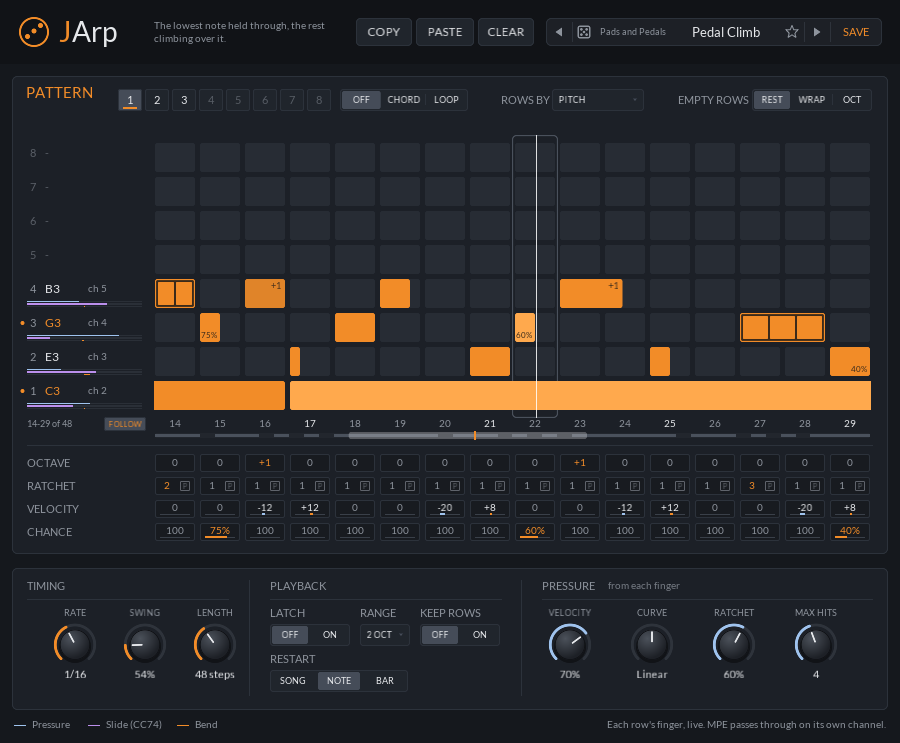
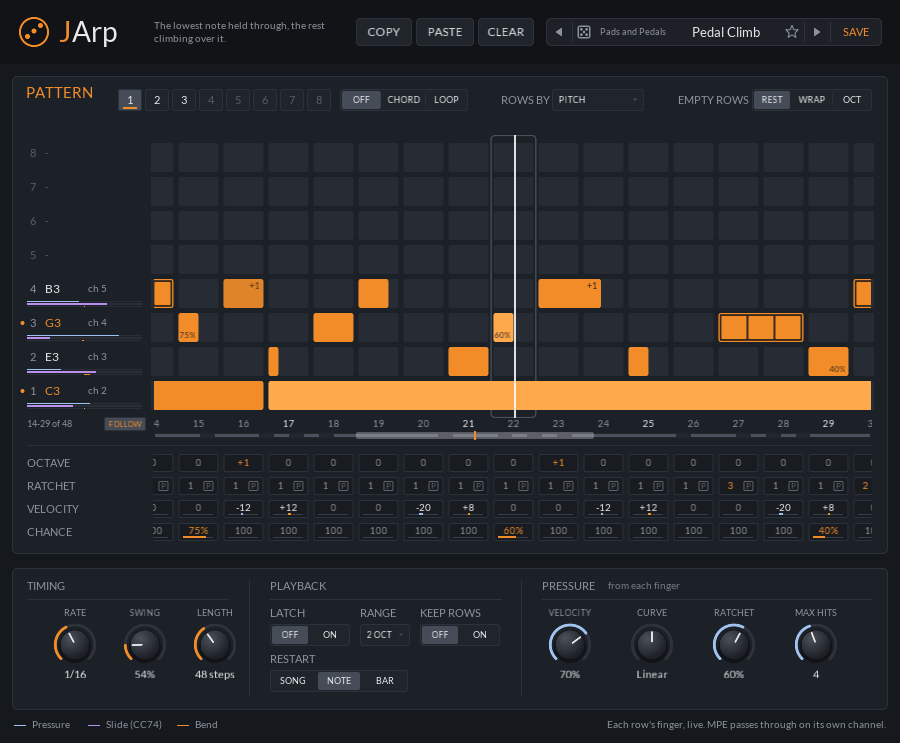
JArp 0.14.0: long patterns glide with the playhead instead of jumping a step at a time
Following a long pattern, the grid and lanes now scroll smoothly with the
transport: the view holds a fractional offset into a step, columns are
clipped at the grid's edges, and clicks map through the same offset.
Scrolling by hand (bar, wheel, end drag) still lands on whole steps.
README and the long-pattern picture updated.

Claude-Session: https://claude.ai/code/session_01FGswf6JUw7v2KbX5Q7nJHJ

diff --git a/plugins/jarp/src/editor.cpp b/plugins/jarp/src/editor.cpp
@@ -95,10 +95,13 @@ const char *ordinal(int row) {
 
 // Which steps the grid and the lanes show: kView of them from `first`. A pattern longer than kView
 // scrolls, following the playhead unless the scroll bar was moved by hand: the view holds still until
-// the playhead reaches its middle, then moves a step at a time to keep it there, and stops once the
-// pattern's last step is at the right edge.
+// the playhead reaches its middle, then glides with it to keep it there, and stops once the pattern's
+// last step is at the right edge.
 struct GridScroll {
+   // The view starts `frac` of a column past step `first`: following the playhead, it glides rather
+   // than jumping a step at a time. Scrolled by hand, it lands on a whole step (frac 0).
    int first = 0;
+   float frac = 0.0f;
    bool follow = true;
    // The notes picked (right-click, shift-click or a box) for their own lane values, by slot and
    // each one's row and step; slot -1 for none.
@@ -168,16 +171,34 @@ struct GridScroll {
       picks.clear();
    }
 
-   // Brings `first` up to date for a pattern of `len` steps with the playhead on `playStep` (or -1).
-   void update(int len, int playStep) {
+   // Brings the view up to date for a pattern of `len` steps with the playhead at `position` (in
+   // steps, or below 0 when not playing here).
+   void update(int len, double position) {
       if (len <= kView) {
          first = 0;
+         frac = 0.0f;
          return;
       }
-      if (follow && playStep >= 0)
-         first = playStep - kView / 2;
-      first = std::clamp(first, 0, len - kView);
+      if (follow && position >= 0.0) {
+         const double start = std::clamp(position - kView / 2.0, 0.0, static_cast<double>(len - kView));
+         first = static_cast<int>(std::floor(start));
+         frac = static_cast<float>(start - first);
+      }
+      if (first >= len - kView || first < 0) {
+         first = std::clamp(first, 0, len - kView);
+         frac = 0.0f;
+      }
    }
+   // Scrolls by hand to `step`, a whole step.
+   void scrollTo(int step, int len) {
+      first = std::clamp(step, 0, std::max(0, len - kView));
+      frac = 0.0f;
+   }
+   // Where on the grid a step (or part of one) starts, and the column (counted from `first`) under x.
+   float x(double step) const { return kGridX + static_cast<float>(step - first - frac) * kColumn; }
+   float column(float x) const { return (x - kGridX) / kColumn + frac; }
+   // Whether x is over the grid's columns.
+   static bool over(float x) { return x >= kGridX && x < kGridX + kView * kColumn - (kColumn - kCellW); }
 };
 
 // The grid of notes, with the row labels at its left, the step numbers under it and the pattern's
@@ -208,20 +229,23 @@ public:
       const int playQuarter = here ? static_cast<int>(f.position * kQuarters) : -1;
       const int first = scroll_.first;
 
-      // The playhead's column, behind the cells.
-      if (playStep >= first && playStep < first + kView) {
-         const float x = (kGridX + (playStep - first) * kColumn - 3) * s;
+      // The cells and the playhead's column behind them, clipped to the grid as the view glides.
+      c.saveState();
+      c.trimClampBounds((kGridX - 4) * s, 0, (kBarW + 8) * s, height());
+      if (playStep >= first && playStep <= first + kView) {
+         const float x = (scroll_.x(playStep) - 3) * s;
          c.setColor(0xff4a515c);
          c.roundedRectangleBorder(x, (kGridY - 8) * s, (kCellW + 6) * s, (7 * kRowPitch + kCellH + 16) * s, 5 * s, 1.2f * s);
       }
 
       for (int r = 0; r < kRows; ++r) {
          const float y = rowY(r);
-         for (int col = 0; col < kView; ++col) {
+         for (int col = 0; col <= kView; ++col) {
             c.setColor(first + col < len ? kCell : kCellOff);
-            c.roundedRectangle((kGridX + col * kColumn) * s, y * s, kCellW * s, kCellH * s, 3 * s);
+            c.roundedRectangle(scroll_.x(first + col) * s, y * s, kCellW * s, kCellH * s, 3 * s);
          }
       }
+      c.restoreState();
 
       // Notes, clipped to the steps in view (a long note may start before them). Each shows its own
       // lane over its step's: softer notes fainter, the octave as a tag, ratchets as splits, a dot
@@ -234,14 +258,14 @@ public:
          anyHeld = anyHeld || f.rows[r].key >= 0;
       for (int i = 0; i < p.count; ++i) {
          const Note &n = p.notes[i];
-         if (n.step >= first + kView || n.step * kQuarters + n.length <= first * kQuarters)
+         if (n.step > first + kView || n.step * kQuarters + n.length <= first * kQuarters)
             continue;
          const Lane lane = p.laneOf(i);
          const bool live = n.step < len;
          // A note on a row no held note plays (too few held, or a degree not held) greys out.
          const bool muted = anyHeld && f.rows[n.row].key < 0;
          const unsigned tone = muted ? 0xff5a606b : kOrange;
-         const float x = kGridX + (n.step - first) * kColumn, y = rowY(n.row);
+         const float x = scroll_.x(n.step), y = rowY(n.row);
          const int quarters = std::min<int>(n.length, live ? (len - n.step) * kQuarters : n.length);
          const float w = noteWidth(quarters);
          const bool sounding = live && f.running && f.rows[n.row].key >= 0 && playQuarter >= n.step * kQuarters &&
@@ -327,8 +351,8 @@ public:
       }
 
       // The playhead line, moving through the step in time with the transport.
-      if (here && f.position >= first && f.position < first + kView) {
-         const float px = kGridX + static_cast<float>(f.position - first) * kColumn;
+      if (here && f.position >= first + scroll_.frac && f.position < first + scroll_.frac + kView) {
+         const float px = scroll_.x(f.position);
          c.setColor(alpha(0xffffffff, 0.85f));
          c.fill((px - 0.75f) * s, (kGridY - 8) * s, 1.5f * s, (7 * kRowPitch + kCellH + 16) * s);
       }
@@ -377,12 +401,15 @@ public:
       }
 
       // Step numbers, the beats brighter.
-      for (int col = 0; col < kView; ++col) {
+      c.saveState();
+      c.trimClampBounds((kGridX - 2) * s, 0, (kBarW + 4) * s, height());
+      for (int col = 0; col <= kView; ++col) {
          const int step = first + col;
          c.setColor(step >= len ? alpha(t.dimText, 0.45f) : step % 4 == 0 ? t.text : t.dimText);
-         c.text(std::to_string(step + 1), ui::font(9.5f * s), visage::Font::kCenter, (kGridX + col * kColumn) * s,
+         c.text(std::to_string(step + 1), ui::font(9.5f * s), visage::Font::kCenter, scroll_.x(step) * s,
                 kNumbersY * s, kCellW * s, 16 * s);
       }
+      c.restoreState();
 
       // A pattern longer than the grid: a scroll bar under the step numbers, with the steps that
       // start notes ticked along it and the playhead in orange, and the steps in view and FOLLOW at
@@ -395,7 +422,7 @@ public:
             if (p.notes[i].step < len)
                c.fill((kGridX + p.notes[i].step * kBarW / len) * s, (kBarY + 1) * s, std::max(1.0f, kBarW / len) * s, 3 * s);
          c.setColor(alpha(t.text, hoverBar_ || drag_ == Drag::Scroll ? 0.45f : 0.3f));
-         c.roundedRectangle((kGridX + first * kBarW / len) * s, (kBarY - 1) * s, (kView * kBarW / len) * s, 7 * s, 3 * s);
+         c.roundedRectangle((kGridX + (first + scroll_.frac) * kBarW / len) * s, (kBarY - 1) * s, (kView * kBarW / len) * s, 7 * s, 3 * s);
          if (playStep >= 0) {
             c.setColor(kOrange);
             c.fill((kGridX + (f.position * kBarW / len) - 1) * s, (kBarY - 2) * s, 2 * s, 9 * s);
@@ -414,9 +441,9 @@ public:
       }
 
       // The pattern's end: a purple bar with a tab to drag.
-      if (len < first || len > first + kView)
+      if (len < first + scroll_.frac || len > first + scroll_.frac + kView)
          return;
-      const float bx = barX(len - first);
+      const float bx = barX(len);
       c.setColor(kPurple);
       c.fill((bx - 1) * s, 14 * s, 2 * s, (kGridY + 7 * kRowPitch + kCellH - 14) * s);
       c.roundedRectangle((bx - 7) * s, 4 * s, 14 * s, 14 * s, 3 * s);
@@ -444,16 +471,16 @@ public:
          return;
       }
       // The end bar, anywhere along it.
-      if (length() >= first && length() <= first + kView && std::abs(x - barX(length() - first)) < 7 &&
+      if (length() >= first && length() <= first + kView + 1 && std::abs(x - barX(length())) < 7 &&
           y < kGridY + 8 * kRowPitch) {
          drag_ = Drag::End;
          return;
       }
-      const int col = static_cast<int>(std::floor((x - kGridX) / kColumn));
+      const int col = static_cast<int>(std::floor(scroll_.column(x)));
       const int row = 7 - static_cast<int>(std::floor((y - kGridY) / kRowPitch));
-      if (col < 0 || col >= kView || row < 0 || row >= kRows || y < kGridY)
+      if (!GridScroll::over(x) || col < 0 || col > kView || row < 0 || row >= kRows || y < kGridY)
          return;
-      const int quarter = first * kQuarters + static_cast<int>(std::floor((x - kGridX) / kColumn * kQuarters));
+      const int quarter = first * kQuarters + static_cast<int>(std::floor(scroll_.column(x) * kQuarters));
       const int at = p.noteAt(row, std::min(quarter, kMaxLength - 1));
       const int slot = scroll_.view;
       // Right-click picks a note (or lets it go) for editing its own lane values below; shift-click
@@ -538,9 +565,9 @@ public:
       const int n = std::max(1, static_cast<int>(std::ceil(std::max(std::abs(dx), std::abs(dy)) / 4.0f)));
       for (int k = 1; k <= n; ++k) {
          const float px = lastX_ + dx * k / n, py = lastY_ + dy * k / n;
-         const int col = static_cast<int>(std::floor((px - kGridX) / kColumn));
+         const int col = static_cast<int>(std::floor(scroll_.column(px)));
          const int row = 7 - static_cast<int>(std::floor((py - kGridY) / kRowPitch));
-         if (col < 0 || col >= kView || row < 0 || row >= kRows || py < kGridY)
+         if (!GridScroll::over(px) || col < 0 || col > kView || row < 0 || row >= kRows || py < kGridY)
             continue;
          const int step = scroll_.first + col;
          if (drag_ == Drag::Paint) {
@@ -548,7 +575,7 @@ public:
                next.add(row, step, kQuarters);
          }
          else {
-            const int quarter = scroll_.first * kQuarters + static_cast<int>(std::floor((px - kGridX) / kColumn * kQuarters));
+            const int quarter = scroll_.first * kQuarters + static_cast<int>(std::floor(scroll_.column(px) * kQuarters));
             if (const int at = next.noteAt(row, std::min(quarter, kMaxLength - 1)); at >= 0)
                erase(next, at);
          }
@@ -605,10 +632,10 @@ public:
       }
       if (drag_ == Drag::End) {
          // Past the right edge the grid scrolls on, so the end can be dragged out to kSteps.
-         const int len = std::clamp(scroll_.first + static_cast<int>(std::lround((x - kGridX + 2.5f) / kColumn)), 1, kSteps);
+         const int len = std::clamp(scroll_.first + static_cast<int>(std::lround(scroll_.column(x + 2.5f))), 1, kSteps);
          if (len > scroll_.first + kView || len < scroll_.first) {
             scroll_.follow = false;
-            scroll_.first = std::clamp(len > scroll_.first ? len - kView : len - 1, 0, kSteps - kView);
+            scroll_.scrollTo(len > scroll_.first ? len - kView : len - 1, kSteps);
          }
          if (len != length()) {
             Pattern next = shown();
@@ -626,7 +653,7 @@ public:
       if (note_ < 0 || note_ >= next.count)
          return;
       Note &n = next.notes[note_];
-      const float start = kGridX + (n.step - scroll_.first) * kColumn;
+      const float start = scroll_.x(n.step);
       const int quarters = static_cast<int>(std::lround((x - start + 2.5f) / kColumn * kQuarters));
       n.length = static_cast<uint16_t>(std::clamp(quarters, 1, next.room(n.row, n.step, note_)));
       commit(next);
@@ -679,9 +706,9 @@ public:
          return -1;
       for (int i = 0; i < p.count; ++i) {
          const Note &n = p.notes[i];
-         if (n.row != row || n.step >= first + kView)
+         if (n.row != row || n.step > first + kView)
             continue;
-         const float right = kGridX + (n.step - first) * kColumn + noteWidth(n.length);
+         const float right = scroll_.x(n.step) + noteWidth(n.length);
          const float zone = std::min(kEdgeW, noteWidth(n.length) / 4);
          if (x <= right + 1 && x >= right - zone && right <= kGridX + kBarW + 1)
             return i;
@@ -696,7 +723,7 @@ public:
       if (len <= kView || d == 0.0f)
          return false;
       scroll_.follow = false;
-      scroll_.first = std::clamp(scroll_.first + (d > 0 ? 2 : -2), 0, len - kView);
+      scroll_.scrollTo(scroll_.first + (d > 0 ? 2 : -2), len);
       redrawAll();
       return true;
    }
@@ -717,7 +744,7 @@ private:
       scroll_.picks = boxBase_;
       for (int i = 0; i < p.count; ++i) {
          const Note &n = p.notes[i];
-         const float nx = kGridX + (n.step - scroll_.first) * kColumn, ny = rowY(n.row);
+         const float nx = scroll_.x(n.step), ny = rowY(n.row);
          const float nx1 = std::min(nx + noteWidth(n.length), kGridX + kBarW);
          if (nx1 < x0 || nx > x1 || ny + kCellH < y0 || ny > y1 || nx1 < kGridX)
             continue;
@@ -734,7 +761,7 @@ private:
    void scrollTo(float x) {
       const int len = length();
       scroll_.follow = false;
-      scroll_.first = std::clamp(static_cast<int>(std::lround((x - kGridX) / kBarW * len - kView / 2.0)), 0, len - kView);
+      scroll_.scrollTo(static_cast<int>(std::lround((x - kGridX) / kBarW * len - kView / 2.0)), len);
       redrawAll();
    }
    void redrawAll() {
@@ -746,7 +773,7 @@ private:
    int length() const { return std::clamp<int>(shown().length, 1, kSteps); }
    int maxHits() const { return static_cast<int>(std::lround(host_.paramModulated(kMaxHits))); }
    static float rowY(int row) { return kGridY + (7 - row) * kRowPitch; }
-   static float barX(int len) { return kGridX + len * kColumn - (kColumn - kCellW) / 2; }
+   float barX(int len) const { return scroll_.x(len) - (kColumn - kCellW) / 2; }
 
    static bool rowPlaying(const Pattern &p, const jarp::Frame &f, int row, int len, int playQuarter) {
       if (!f.running)
@@ -827,7 +854,10 @@ public:
          c.setColor(0xffffffff);
          c.text(label, ui::font(8 * s), visage::Font::kLeft, 74 * s, kLaneY[0] * s, 50 * s, kLaneH * s);
       }
-      for (int col = 0; col < kView; ++col) {
+      // Clipped to the grid's columns as the view glides.
+      c.saveState();
+      c.trimClampBounds((kGridX - 2) * s, 0, (kView * kColumn - (kColumn - kCellW) + 4) * s, height());
+      for (int col = 0; col <= kView && scroll_.first + col < kSteps; ++col) {
          const int step = scroll_.first + col;
          const int picked = scroll_.pickedOn(p, slot, step);
          const bool mine = picked >= 0;
@@ -837,7 +867,7 @@ public:
          // A picked note's value taken from the step shows dim.
          auto dim = [&](uint8_t bit) { return own & bit ? base : 0.45f * base; };
          float a = base;
-         const float x = kGridX + col * kColumn;
+         const float x = scroll_.x(step);
          for (int lane = 0; lane < kLanes; ++lane) {
             const float y = kLaneY[lane];
             c.setColor(alpha(0xff181b20, a));
@@ -894,13 +924,14 @@ public:
             c.fill((x + 5) * s, (cy - 0.5f) * s, (kCellW - 10) * l.chance / 100.0f * s, 2.0f * s);
          }
       }
+      c.restoreState();
    }
 
    void mouseDown(const visage::MouseEvent &e) override {
       const float s = ui::designScale(*this);
       const float x = e.position.x / s, y = e.position.y / s;
-      const int view = static_cast<int>(std::floor((x - kGridX) / kColumn));
-      col_ = view >= 0 && view < kView ? scroll_.first + view : -1;
+      const int view = static_cast<int>(std::floor(scroll_.column(x)));
+      col_ = GridScroll::over(x) && view >= 0 && view <= kView ? scroll_.first + view : -1;
       lane_ = -1;
       for (int l = 0; l < kLanes; ++l)
          if (y >= kLaneY[l] - 2 && y < kLaneY[l] + kLaneH + 3)
@@ -911,7 +942,7 @@ public:
       const int note = noteFor(p, col_);
       downY_ = y;
       // P toggles (each click, so a quick second click toggles it back).
-      if (lane_ == 1 && x - (kGridX + view * kColumn) >= 23) {
+      if (lane_ == 1 && x - scroll_.x(col_) >= 23) {
          Lane l = laneAt(p, col_, note);
          l.pressure = l.pressure ? 0 : 1;
          store(p, col_, note, l, kOwnPressure);
@@ -969,14 +1000,16 @@ public:
    bool mouseWheel(const visage::MouseEvent &e) override {
       const float s = ui::designScale(*this);
       const float x = e.position.x / s, y = e.position.y / s;
-      const int view = static_cast<int>(std::floor((x - kGridX) / kColumn));
+      const int view = static_cast<int>(std::floor(scroll_.column(x)));
       int lane = -1;
       for (int l = 0; l < kLanes; ++l)
          if (y >= kLaneY[l] - 2 && y < kLaneY[l] + kLaneH + 3)
             lane = l;
-      if (view < 0 || view >= kView || lane < 0 || e.wheel_delta_y == 0.0f)
+      if (!GridScroll::over(x) || view < 0 || view > kView || lane < 0 || e.wheel_delta_y == 0.0f)
          return false;
       const int col = scroll_.first + view;
+      if (col >= kSteps)
+         return false;
       const int by = e.wheel_delta_y > 0 ? 1 : -1;
       Pattern p = shown();
       const int note = noteFor(p, col);
@@ -1607,7 +1640,7 @@ public:
          const jarp::Frame &f = host_.frame();
          const int len = std::clamp<int>(shown().length, 1, kSteps);
          const bool here = f.running && f.slot == scroll_.view;
-         scroll_.update(len, here ? std::clamp(static_cast<int>(f.position), 0, len - 1) : -1);
+         scroll_.update(len, here ? std::clamp(f.position, 0.0, static_cast<double>(len)) : -1.0);
       }
       slots_->redraw();
       // Over the grid, the dice card hides what's under it.

diff --git a/plugins/jarp/README.md b/plugins/jarp/README.md
@@ -14,7 +14,7 @@ note on that step for as long as the cell is drawn. Every note goes out on the f
 key, so the synth after it still hears that finger's pressure, slide and bend. Put it before any MPE
 instrument.
 
-Version 0.13.0.
+Version 0.14.0.
 
 ![Panel](docs/panel.png)
 
@@ -62,7 +62,8 @@ the playhead. Beside it, the steps in view (`17-32 of 48`) and **FOLLOW**.
 ![A long pattern](docs/long.png)
 
 - With **FOLLOW** lit, the grid follows the playhead: it holds still until the playhead reaches the
-  middle, then scrolls a step at a time to keep it there, until the pattern's end reaches the right edge.
+  middle, then glides along with it, smoothly with the transport rather than a step at a time, until
+  the pattern's end reaches the right edge.
 - **Drag along the bar** (or the step numbers above it), or scroll the mouse wheel over the grid, to
   look elsewhere. That turns FOLLOW off; click it to follow again.
 - The lanes under the grid scroll with it.
